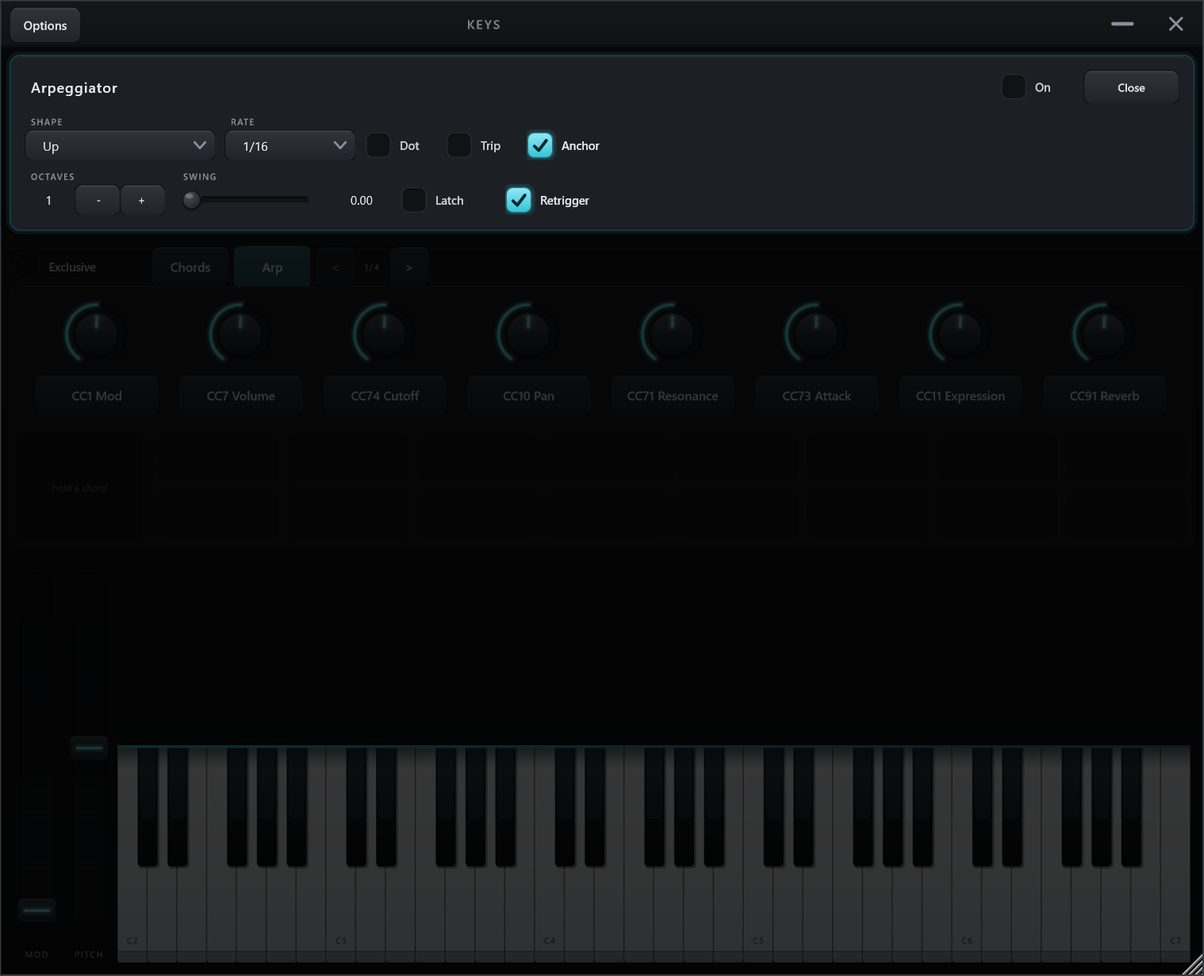
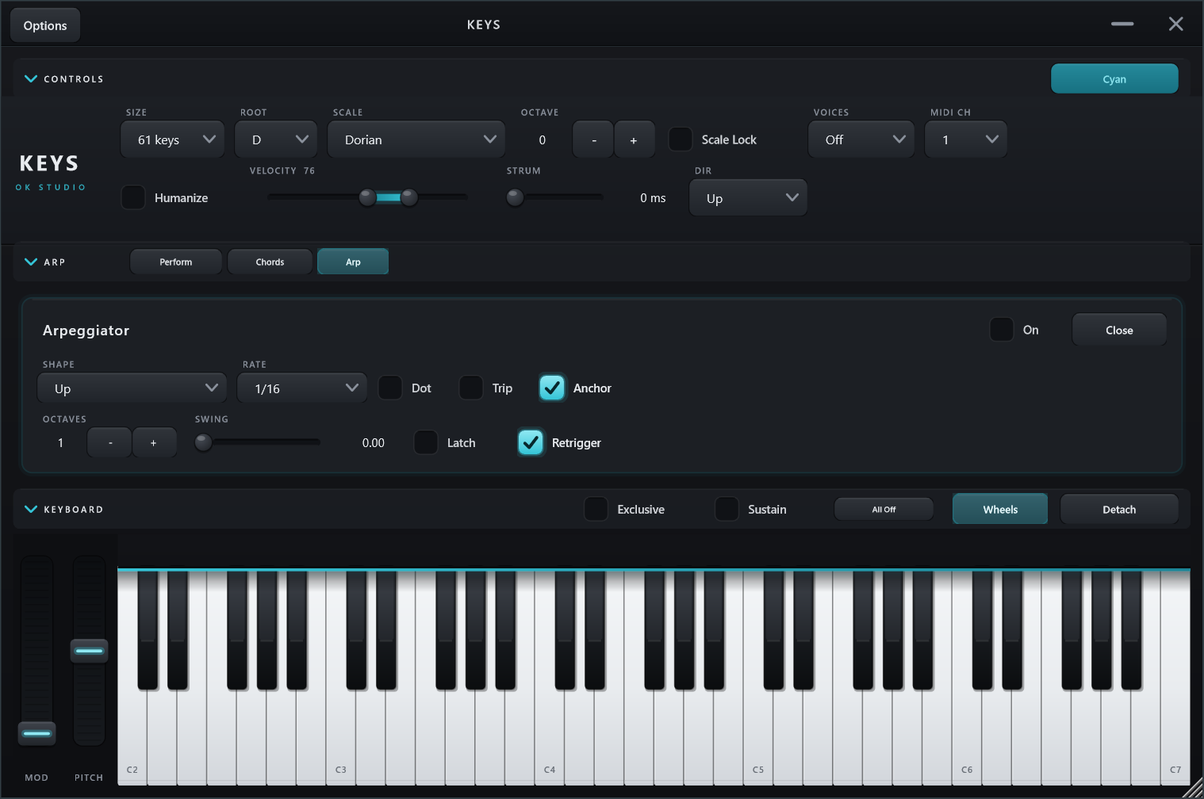
docs: sweep the docs and screenshots against this branch
CONTROLS.md and README described controls that no longer exist (Latch, the fixed
Velocity slider, Curve, Humanize Timing, the < 1/4 > page transport) and said
nothing about the ones that do. Both now describe holding notes as it actually
works - Sustain or right-click to hold, left-click to release - and CONTROLS.md
gains sections for folding the window down and detaching the keyboard.

ARCHITECTURE.md gains the scheduling section this branch's Strum fix earned: why
a delay cannot go through MidiMessageCollector, and what scheduleNoteOn does
instead. Its parameter list now separates the live set from the growing
registered-but-unread set, and records that the folding layout and accent colour
are deliberately not parameters. The "one view, no tabs" paragraph was
contradicting itself now that tabs exist for centre views; it distinguishes
surfaces (still one) from views (three).

All five screenshots regenerated - they still showed the pre-folding UI.

Two things the sweep turned up and fixed rather than documented around:

capture-window.ps1 required -ExePath even with -ProcessId, which made the
two-pass capture (open a view, then drive a control inside it) impossible; and it
had no Smart App Control retry, so a docs capture failed outright on a freshly
linked binary the way run.py already knew to absorb.

SectionBar's accessible name was the bare caption, so the centre bar and the tab
of the same name were indistinguishable - ambiguous for a screen reader, and it
[…]

diff --git a/src/ui/SectionBar.h b/src/ui/SectionBar.h
@@ -29,7 +29,11 @@ public:
 
     explicit SectionBar(const juce::String& caption) : juce::Button(caption), title(caption)
     {
-        setTitle(caption); // accessible name; a Button's own is its (empty) button text
+        // Accessible name (a Button's own is its empty button text). "... section" and not
+        // the bare caption, because the centre bar's caption follows the view and would
+        // otherwise collide with the tab of the same name — ambiguous for a screen reader,
+        // and it made UI Automation fold the section when asked to click the tab.
+        setTitle(caption + " section");
         setTooltip("Show or hide " + caption.toLowerCase() + ".");
         setClickingTogglesState(true);
         setToggleState(true, juce::dontSendNotification); // open
@@ -42,7 +46,7 @@ public:
         if (c == title)
             return;
         title = c;
-        setTitle(c); // keep the accessible name honest
+        setTitle(c + " section"); // keep the accessible name honest, and still distinct
         repaint();
     }
 

diff --git a/docs/CONTROLS.md b/docs/CONTROLS.md
@@ -9,13 +9,14 @@ on-screen equivalent.
 
 | Gesture | Result |
 |---------|--------|
-| Click a key | Play that note (velocity from the Velocity control + Curve) |
+| Click a key | Play that note (velocity from the Velocity range) |
 | Click and drag | Glide across keys; the previous note releases as the next sounds (monophonic) |
-| Right-click a key *(optional)* | Toggle that one note held, without turning Latch mode on — Octavium's per-note latch. **All Off**, or turning **Latch** off, releases it. |
+| Right-click a key *(optional)* | Hold that one note — Octavium's per-note latch. **Left-click it again** to release it, or **All Off**. |
 | Click a **C** | Every C is labelled (C1, C2, …) to help you orient |
 
-Chords come from Latch, Sustain, or right-click — a single mouse can't hold several
-keys at once, so those are how you stack notes.
+Chords come from **Sustain** or **right-click** — a single mouse can't hold several
+keys at once, so those are how you stack notes. Either way, **clicking a held key
+releases it**, so a chord with a wrong note in it can be taken apart a note at a time.
 
 To the **left of the keyboard** are two performance wheels: **Mod**
 sends CC1 and stays where you leave it; **Pitch** bends and glides back to centre over
@@ -23,12 +24,34 @@ a moment when you let go. Both move by **relative drag** — clicking never jump
 value, so a stray click can't slam a bend. They are
 transient (they don't save with the session) and send on the current MIDI channel.
 
+## Folding the window down
+
+Keys is a stack of sections, and each one folds away so the plugin can be squeezed small
+when the screen is busy. **Click the chevron at the left end of a section bar** — only
+that end folds it, so a click that misses a control next to it can't collapse the section
+by accident. The window resizes itself to whatever the folds add up to, and can never be
+dragged smaller than the content it is showing.
+
+| Section | Bar | Folds away |
+|---------|-----|-----------|
+| **Controls** | top | Size, Root, Scale, Octave, Scale Lock, Voices, MIDI Ch, Velocity, Humanize, Strum, Dir |
+| **Perform / Chords / Arp** | middle | Whichever centre view is showing. The three tabs stay visible while it is folded, so picking one both unfolds and switches. **Knobs** and **Pads** fold the two halves of Perform separately. |
+| **Keyboard** | above the keys | The keybed. **Wheels** folds the mod and pitch wheels; Exclusive, Sustain and All Off stay put. |
+
+### Detaching the keyboard
+
+**Detach** puts the keybed in its own resizable window, so you can make the keys as large
+as the screen allows without stretching the rest of the plugin. Docked, key height is a
+compromise with everything above it; detached, dragging the window taller genuinely makes
+the keys taller. That window carries its own **Size**, **Wheels** and **Re-dock** controls,
+and its close button re-docks. Its position and size are remembered with the session.
+
 ## Playing surface
 
 Keys is one view, no tabs: the piano fills the playing area in both Keys and Keys
 Host. (The hex-grid Harmonic Table and Hex Host live in their own repo, `../Hex`.)
 
-Latch, Sustain, Voices, Octave, and Humanize all apply to it, and All Off silences
+Sustain, Voices, Octave, and Humanize all apply to it, and All Off silences
 it. The 4x4 note pad grid and the XY pad from earlier builds are gone (drums belong
 to Beatform; the XY pad's two CCs are covered by the knob row below).
 
@@ -49,52 +72,63 @@ click-jump), and nothing is sent until you move one.
 | **Scale Lock** | toggle | On: each played note snaps to the nearest note in (Root, Scale); out-of-scale keys are dimmed so you see the shape. You cannot play a wrong note. |
 | **Octave** | inc/dec | Transpose the whole keyboard, -5..+5 octaves. Click the arrows or scroll. |
 | **Voices** | dropdown | Polyphony limit: **Off** (unlimited) or **1–8** notes. Playing past the limit steals the oldest note. |
-| **Velocity** | slider | Base note velocity (1–127), used when Humanize is off. Click or scroll. |
-| **Curve** | dropdown | Shapes the velocity response: **Soft** (reach high velocities easily), **Linear**, **Hard** (stays quiet until you push) |
 | **MIDI Ch** | dropdown | Output channel, 1–16 |
-| **Sustain** | toggle | On: notes keep sounding after you release the mouse, like a sustain pedal. With the pedal down a glide leaves a trail. Turn off (or click All Off) to release. |
-| **Latch** | toggle | On: clicking a key toggles it on or off and holds it. Drag to paint several on. Build and hold a chord with one finger. |
-| **Humanize** | toggle | On: each note gets a random velocity within the Humanize **Velocity** range plus a small timing offset, so repeats and chords don't sound machine-perfect. |
-| Humanize **Velocity** | two-handle slider | The Min/Max velocity each note is drawn from when Humanize is on (shown as "Velocity 64–88"). Grab either handle. |
-| Humanize **Timing** | slider | Micro-timing spread, 0–30 ms. |
-| **Excl** | toggle | Exclusive chord mode: playing a chord pad chokes the previously-playing pad, so only one pad chord sounds at a time. |
-| **Strum** | slider | Spread a chord pad's notes over 0–200 ms (a strum) instead of playing them together. |
+| **Velocity** | two-handle slider | How hard Keys plays. With **Humanize** off, every note plays the band's midpoint (the readout shows it). With Humanize on, each note takes a random value inside the band. Drag an end to resize it, or **drag the middle to move the whole band**. Collapse it onto one value for a plain fixed velocity. |
+| **Humanize** | toggle | On: each note takes a random velocity from inside the Velocity band, so repeats and chords don't sound machine-perfect. Off: the band's midpoint. |
+| **Strum** | slider | Spread a chord's notes over 0–200 ms instead of playing them together. Applies to chord pads and the live chord card. |
 | **Dir** | dropdown | Strum direction: **Up** (low→high), **Down** (high→low), or **Random**. |
-| **All Off** | button | Panic. Stops every note on every channel (per-note offs, then CC120 All Sound Off + CC123 All Notes Off). |
+| **Theme** | swatch | Colours this instance (Cyan, Amber, Lime, Violet, Magenta, Orange, Rose, Ice), so you can tell it from Keys on your other tracks. Per instance, saved with the session. Sits on the *Controls bar*, so it stays reachable with that section folded. |
 | **Update to vX.Y.Z** | button | Appears only when a newer signed release exists. One click downloads, verifies, and launches the installer. |
 
-## Notes on Sustain vs Latch
+These sit on the **Keyboard bar** rather than in a section, so folding anything away never
+takes them with it — they are what you reach for while playing:
 
-- **Sustain** is momentary-feeling: notes you play while it's on are caught and held;
-  turning it off releases everything it caught.
-- **Latch** is a toggle set: each key you click flips on or off and stays. Turning
-  Latch off clears the latched notes.
+| Control | Type | What it does |
+|---------|------|--------------|
+| **Exclusive** | toggle | Playing a chord pad chokes the previously-playing pad, so only one pad chord sounds at a time. |
+| **Sustain** | toggle | On: notes keep sounding after you release the mouse, like a sustain pedal. With the pedal down a glide leaves a trail. Click a held key to release just that note; turn Sustain off (or click All Off) to release everything. |
+| **All Off** | button | Panic. Stops every note on every channel, and drops anything a strum still had queued. |
 
-Both persist with the DAW session, along with every other control here.
+## Holding notes
+
+A single mouse can't hold several keys, so there are two ways to stack them:
+
+- **Sustain** catches every note you play while it is on.
+- **Right-click** a key to hold that one note (an optional accelerator).
+
+Either way, **left-clicking a held key releases it**. That is why there is no Latch
+toggle any more: once one click both holds and releases, a whole mode for holding notes
+earned nothing.
+
+Everything here persists with the DAW session.
 
 ## Chord pads
 
 Two rows of eight pads (sixteen a page) and a live chord card sit between the controls
 and the playing area. They let you keep a palette of chords a single click away.
 
-1. **Build a chord.** Turn **Latch** on and click the notes you want. The card names
-   the chord it hears (for example `Cm7`).
-2. **Capture it.** Drag the card onto a pad. The pad stores that chord, auto-labelled.
-3. **Play it, beat-pad style.** Press and hold a filled pad to sound its chord; release
-   to stop. Turn **Sustain** on to keep it ringing after you let go, and **Excl** on so
-   a new pad chokes the previous chord.
-4. **Rearrange, clear, or recall.** Drag a pad onto another to move it, drag a pad off
+1. **Build a chord.** Turn **Sustain** on (or right-click) and click the notes you want.
+   The card names the chord it hears (for example `Cm7`).
+2. **Hear it as a chord.** Press and hold the card. Holding a chord sounds the keys you
+   are holding; the card fires them as one chord, so you hear it strummed, humanized and
+   capped by Voices — the way a pad plays it. Release to stop.
+3. **Capture it.** Drag the card onto a pad. The pad stores that chord, auto-labelled.
+   (A drag beats the press, so capturing never leaves a note ringing.)
+4. **Play it, beat-pad style.** Press and hold a filled pad to sound its chord; release
+   to stop. Turn **Sustain** on to keep it ringing after you let go, and **Exclusive** on
+   so a new pad chokes the previous chord.
+5. **Rearrange, clear, or recall.** Drag a pad onto another to move it, drag a pad off
    the rows to empty it, or drag a pad onto the live card to bring its notes back onto
-   the keyboard (latched) for editing — capture in reverse.
+   the keyboard (held) for editing — capture in reverse.
 
 Pad chords play through the same output as the keys, so **Humanize** gives each chord
 tone its own velocity and the **Strum** control spreads them into a strum. A pad also
 respects the **Voices** limit: if a chord has more notes than the cap allows, its lowest
 notes are the ones that sound. The pads save with the DAW session.
 
-There are **four pages** of sixteen pads. `<` and `>` move between them, and the label
-between shows where you are. A chord left ringing on one page keeps sounding while you
-work on another, so you can hold a bass chord on page 1 and play page 2 over it.
+There are **four pages** of sixteen pads, picked by the four numbered buttons directly
+under the strip. A chord left ringing on one page keeps sounding while you work on
+another, so you can hold a bass chord on page 1 and play page 2 over it.
 
 ## Chord generator
 
@@ -171,7 +205,7 @@ ignored them). Locked pads are never overwritten, same as the algorithmic source
 ## Arpeggiator
 
 Opens from the **Arp** button next to Chords. It takes whatever is currently sounding
-(keyboard, latch, a chord pad) and plays it one note at a time.
+(keyboard, a held note, a chord pad) and plays it one note at a time.
 
 **Shape decides how much of the panel exists.** The eight directions are plain
 arpeggios and show nothing but the controls below. The ninth entry, **Pattern**, opens

diff --git a/docs/ARCHITECTURE.md b/docs/ARCHITECTURE.md
@@ -9,7 +9,7 @@ on-screen piano into MIDI. Everything shared with the rest of the line comes fro
 ```
 src/
 ├── PluginProcessor.{h,cpp}   # AudioProcessor: params, MIDI output, chord pads, state
-├── PluginEditor.{h,cpp}      # controls + surface tabs + layout + updater button
+├── PluginEditor.{h,cpp}      # folding sections, centre views, layout, updater button
 ├── NoteMath.h                # pure note resolution (snap + transpose), unit-tested
 ├── Chords.h                  # pure chord detector (names a note set), unit-tested
 ├── ScaleModes.h              # 12 modes + a chord quality per degree; Feel presets
@@ -29,6 +29,7 @@ src/
 │   ├── ChordGenPanel.{h,cpp} # the chord generator centre view (algorithmic + Markov)
 │   ├── ArpPanel.{h,cpp}      # the arp centre view: Shape gates a tabbed lane editor
 │   ├── SectionBar.h          # the fold/unfold header above a section of the editor
+│   ├── RangeSlider.h         # two-value slider whose band drags as one (velocity range)
 │   ├── KeyboardWindow.h      # the keybed popped out into its own resizable window
 │   └── KeysLookAndFeel.{h,cpp} # the skin: tokens, raised fills, accent glow
 ├── host/                     # Keys Host only (docs/KEYS_HOST_DESIGN.md)
@@ -54,16 +55,19 @@ The keyboard runs on the message (UI) thread. It must not write to the outgoing
 The audio thread does nothing else: `buffer.clear()` (silence) then drain the
 collector. No allocation, no locks.
 
-## Playing surface: one view, the piano
+## Playing surface: one product, one piano
 
-Keys is one view, no tabs: header controls, the knob row, the chord-pad strip, then
-the playing surface — `KeysEditor` builds a `PianoKeyboard`, which derives from
-`NoteSurface`. There used to be five tabbed surfaces (Keys/Hex/Pads/Faders/XY,
-switched by a `surface` parameter); the Pad Grid was cut outright (drums belong to
-Beatform), the Faders and XY surfaces were replaced by the knob row below, and the
-Hex surface moved out to its own repo (`../Hex`) along with Hex Host. The `surface`,
-`uiLayout`, `padChannel`, and `xyCC*` parameters are still registered so old sessions
-load without error, but nothing in the UI reads them any more.
+The **playing surface** is not a choice: `KeysEditor` builds a `PianoKeyboard` (which
+derives from `NoteSurface`), and that is the only surface Keys and Keys Host ship. There
+used to be five tabbed *surfaces* (Keys/Hex/Pads/Faders/XY, switched by a `surface`
+parameter); the Pad Grid was cut outright (drums belong to Beatform), the Faders and XY
+surfaces were replaced by the knob row, and the Hex surface moved out to its own repo
+(`../Hex`) along with Hex Host. Their parameters are still registered — see **Parameters
+and state**.
+
+The tabs that exist now are a different thing: they pick which **centre view** occupies
+the middle of the editor (Perform / Chords / Arp), not which surface you play on. See
+**Folding layout, and the centre view**.
 
 ## Note bookkeeping: one union, one diff (NoteSurface)
 
@@ -106,11 +110,32 @@ turns off correctly even if you change octave or scale while it is held.
 
 ## Humanize
 
-`KeysProcessor::noteOn` applies Humanize when it is on: it draws a uniform-random
-velocity in `[humanizeVelMin, humanizeVelMax]` per note and adds a random `0..humanizeTime`
-ms to the message timestamp, so simultaneous notes spread. Note-offs are never delayed,
-so a note can never release before it sounds. A `juce::Random`, touched only on the
-message thread, drives it.
+The velocity range is the only velocity control. `KeysProcessor::noteOn` draws a
+uniform-random velocity in `[humanizeVelMin, humanizeVelMax]` per note when Humanize is on;
+with it off, `baseVelocity01` returns the band's midpoint. There used to be a fixed
+Velocity slider *as well*, but it only ever applied while Humanize was off, so the two
+were one control in two costumes. Collapsing the band onto a single value is now how you
+ask for a fixed velocity. A `juce::Random`, touched only on the message thread, drives it.
+
+The timing half of Humanize is gone. It nudged the message timestamp, which
+`MidiMessageCollector` flattens (see **Scheduling** below), so it never worked; and even
+working it earned nothing that Strum does not do better.
+
+## Scheduling: why a delay cannot go through the collector
+
+`noteOn`'s `delaySeconds` is not a scheduler. `juce::MidiMessageCollector` empties its
+**entire** queue into the current block on every callback and clamps each event into it,
+so anything beyond one buffer (~10 ms at 512 samples) lands on the end of that buffer.
+
+Chord-pad Strum asks for up to 200 ms and was doing exactly that: every chord arrived as a
+block however far the slider was pushed. `scheduleNoteOn` holds the note and emits it when
+it comes due, on the message thread, the same way the MCP bridge defers notes. Its timer
+runs only while something is pending. Every path that stops sound (`stopChordPad`,
+`allNotesOff`) also calls `cancelScheduledNotes`, because a note-on that fires after its
+note-off is a stuck note nothing clears.
+
+`pressChordPad` and `pressLiveChord` share `fireChord`, so the polyphony cap, the strum
+ordering and the scheduling are one implementation rather than two that drift.
 
 ## Chord pads
 
@@ -122,7 +147,7 @@ selects and indexes by **absolute slot**, so a chord left ringing on another pag
 sounding and a drag can't land on the wrong pad. Sessions saved when pages held eight
 carry a `padsPerPage` marker (absent = 8) and each slot is re-based on load, so every
 pad stays on the page it was on. Build a chord on the
-keyboard (Latch), drag the live card onto a pad to `setChordPad` the sounding notes
+keyboard (Sustain or right-click), drag the live card onto a pad to `setChordPad` the notes
 (named by `keys::chords::detect`), then play it beat-pad style: mouse-down calls
 `pressChordPad` (fire, honouring the `chordExclusive` choke) and mouse-up calls
 `releaseChordPad` (stop, unless Sustain is holding it — the editor releases held pad
@@ -252,15 +277,25 @@ editor to fit rather than shrinking them. Auditioning a chord in the grid reuses
 ## Parameters and state
 
 All settings are `AudioProcessorValueTreeState` parameters (`size`, `root`, `scale`,
-`scaleLock`, `octave`, `channel`, `velocity`, `curve`, `polyphony`, `sustain`, `latch`,
-the Humanize set `humanize` / `humanizeVelMin` / `humanizeVelMax` / `humanizeTime`, the
+`scaleLock`, `octave`, `channel`, `polyphony`, `sustain`,
+the Humanize set `humanize` / `humanizeVelMin` / `humanizeVelMax`, the
 chord-pad settings `chordExclusive` / `chordStrum` / `chordStrumDir` / `padPage`, the
 generator's `gen*` set — `genRoot`, `genMode`, `genOctave`, the note-count and inversion
 toggles, `genCompliance`, `genLockInfluence` — the knob row's `faderCC1`-`faderCC8`
 CC assignments, and the Markov set `genSource`, `markovMode`, `markovTemp`,
-`markovLength`. `surface`, `uiLayout`, `padChannel`, `xyCCX` / `xyCCY` are also still
-registered — they named the old five-tab arrangement — but are dead weight now, kept
-only so a session saved with them loads without error. The Mod and
+`markovLength`.
+
+A growing set is **registered but no longer read**, kept only so a session (and any host
+automation) saved with them loads without error: `surface`, `uiLayout`, `padChannel`,
+`xyCCX` / `xyCCY` from the old five-tab arrangement, and `velocity`, `curve`, `latch`,
+`humanizeTime` from the controls this branch retired. Adding to that list is the standing
+convention here — removing a parameter outright would shift automation in projects that
+already exist.
+
+The folding layout (which sections are open, which centre view, the detached window's
+bounds) and the instance's accent colour are **not** parameters: they change no note, and
+exposing them to automation would only add ways to break a session. They live in
+`KeysProcessor::LayoutState` and ride along in the session tree. The Mod and
 Pitch wheels, knob positions, and the Markov Mood and
 Start pickers are transient performance controls with no parameters (they don't
 persist); Pitch glides back to centre over ~160 ms on release, and the wheels and
@@ -281,8 +316,8 @@ suggestion menu works the chord out from its notes instead.
 `KeysEditor` owns the controls, the knob row, the playing surface, the
 `ChordPads` rows, and the update
 button. It sets the shared `LookAndFeel` (retinted locally toward Octavium's neutral
-grey), wires the playing surface and the pads to `KeysProcessor::baseVelocity01` (velocity
-slider through the curve), pushes the surface's sounding notes into the pads
+grey), wires the playing surface and the pads to `KeysProcessor::baseVelocity01` (the
+midpoint of the velocity range), pushes the surface's sounding notes into the pads
 each timer tick, panics the surface on a channel change (so notes can't strand),
 animates the pitch wheel home after release, and on construction fires
 `okstudio::updater::checkAsync`; if a newer signed

diff --git a/README.md b/README.md
@@ -6,10 +6,11 @@ it sends MIDI to whatever instrument sits downstream, in your DAW or over a virt
 port. Built for creators who work entirely with a mouse, including users with motor
 disabilities: every control is a single click, a drag, or a scroll. No keyboard, no
 modifier keys, and nothing ever *requires* a right-click (one optional right-click
-accelerator exists: it latches a note, and the on-screen Latch toggle does the same).
+accelerator exists: it holds a note, and a plain left click releases it again).
 
 Because it is a plugin, **your setup travels with the song**: keyboard size,
-scale-lock, octave, channel, velocity, sustain, latch, the Humanize settings, the
+scale-lock, octave, channel, velocity, sustain, the Humanize settings, which sections you
+had folded away, this instance's colour, the
 eight knob CC assignments, and
 your captured chord pads all save into the DAW project and come back when you reopen
 it. And it drops straight onto a track, with no loopMIDI to configure.
@@ -30,8 +31,10 @@ Built with **JUCE 8** and **CMake**, on the shared
 
 The hex-grid sibling, **Hex Host**, moved out to its own repo: [`../Hex`](../Hex).
 
-One view, no tabs: header controls, eight rotary CC knobs, the chord-pad strip, then
-the playing surface.
+One view, no tabs: header controls, a centre view (knobs and chord pads, the chord
+generator, or the arpeggiator), then the playing surface. Every section folds away so
+the window can be squeezed small, and the keyboard detaches into its own resizable
+window.
 
 ![Keys](assets/screenshots/keys.png)
 
@@ -43,17 +46,16 @@ the playing surface.
 |---------|--------|
 | **Click** a key | Play that note |
 | **Click and drag** | Glide across keys (monophonic) |
-| **Latch on**, click keys | Toggle notes on and off to build and hold a chord |
-| **Sustain on**, click several keys | Notes keep sounding after release, like a pedal; with the pedal down a glide leaves a trail; click **All Off** or turn Sustain off to release |
-| **Right-click** a key (optional) | Toggle that one note held, without touching the Latch mode — the Octavium accelerator; All Off always clears it |
+| **Sustain on**, click several keys | Notes keep sounding after release, like a pedal; with the pedal down a glide leaves a trail. Click a held key to release just that one, or **All Off** for everything |
+| **Right-click** a key (optional) | Hold that one note — the Octavium accelerator. **Left-click it again** to release it |
 | **Knob row** | Eight rotary CC knobs above the keyboard, each with a one-click reassign button (see Controls below) |
 | **Chord pads** | Build a chord, drag the live card onto a pad to capture it, then press the pad beat-pad style to play it (Sustain holds it). Drag a pad back onto the card to bring its notes up for editing |
 | **Chords** | Open the generator: fill a page of pads for a key and mode, or ask what chord could come next |
 | **All Off** | Stop every note on every channel gently: per-note offs plus CC123, so notes end through their release envelopes instead of being choked |
 
-No gesture beyond a click, a drag, or a scroll is ever required. Latch and Sustain
-are on-screen toggles, not modifier keys, on purpose; right-click exists only as the
-optional shortcut above.
+No gesture beyond a click, a drag, or a scroll is ever required. Sustain is an on-screen
+toggle, not a modifier key, on purpose; right-click exists only as the optional shortcut
+above, and never as the only way to do something.
 
 ## Controls
 
@@ -63,16 +65,17 @@ optional shortcut above.
 | **Root** + **Scale** | The key and scale used by Scale Lock |
 | **Scale Lock** | Snap every played note to the nearest note in (Root, Scale) — you can't hit a wrong note. Out-of-scale keys are dimmed. |
 | **Octave** | Transpose the whole keyboard by -5..+5 octaves |
-| **Velocity** + **Curve** | Note velocity, shaped by a Soft / Linear / Hard response |
+| **Velocity** | A range. Humanize off plays its midpoint, on takes a random value inside it. Drag an end to resize, the middle to move the whole band, or collapse it for a fixed velocity |
 | **MIDI Ch** | Output channel, 1–16 |
 | **Voices** | Polyphony limit: Off (unlimited) or 1–8 notes, stealing the oldest |
 | **Mod / Pitch wheels** | Left of the keyboard: Mod sends CC1 and holds; Pitch bends and glides back to centre. Both move by relative drag, never jumping to a click |
 | **Sustain** | Hold notes after release (pedal) |
-| **Latch** | Click to toggle notes on/off and hold them |
-| **Humanize** | Random velocity within a Min/Max range + micro-timing, so chords feel played |
+| **Humanize** | Draw each note's velocity at random from the Velocity range, so repeats and chords don't sound machine-perfect |
 | **Knobs** | Eight rotary CC knobs; the label under each opens a one-click reassign menu |
-| **Chord pads** | Capture chords to sixteen pads a page (two rows) and press beat-pad style to play (Sustain holds); **Excl** chokes the last chord, **Strum** spreads a pad's notes Up / Down / Random. `<` / `>` move between four pages |
+| **Chord pads** | Capture chords to sixteen pads a page (two rows) and press beat-pad style to play (Sustain holds); **Exclusive** chokes the last chord, **Strum** spreads a chord's notes Up / Down / Random. Four numbered buttons under the strip pick the page |
 | **Chords** | The chord generator — see below |
+| **Theme** | Colour this instance, so you can tell it from Keys on your other tracks |
+| **Detach** | Put the keyboard in its own resizable window |
 | **All Off** | Stop everything |
 
 Full detail in [docs/CONTROLS.md](docs/CONTROLS.md).
